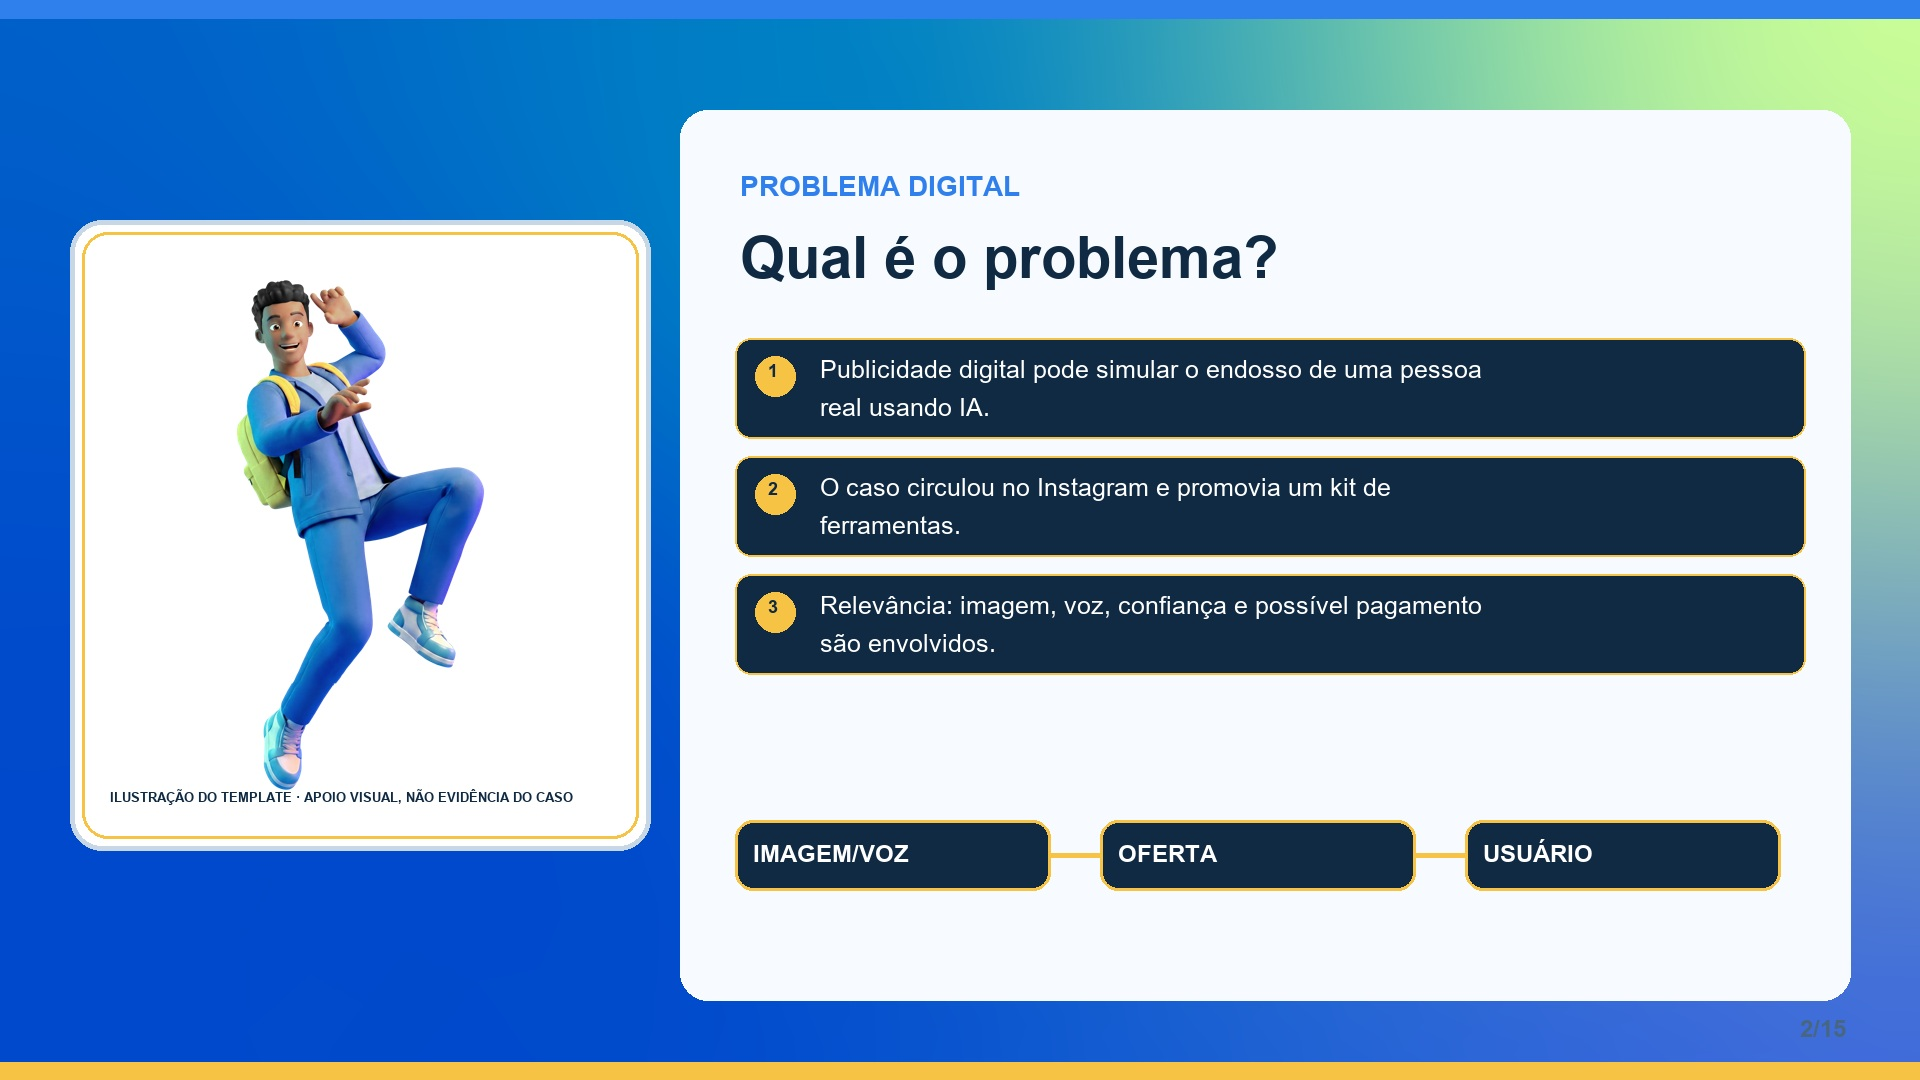
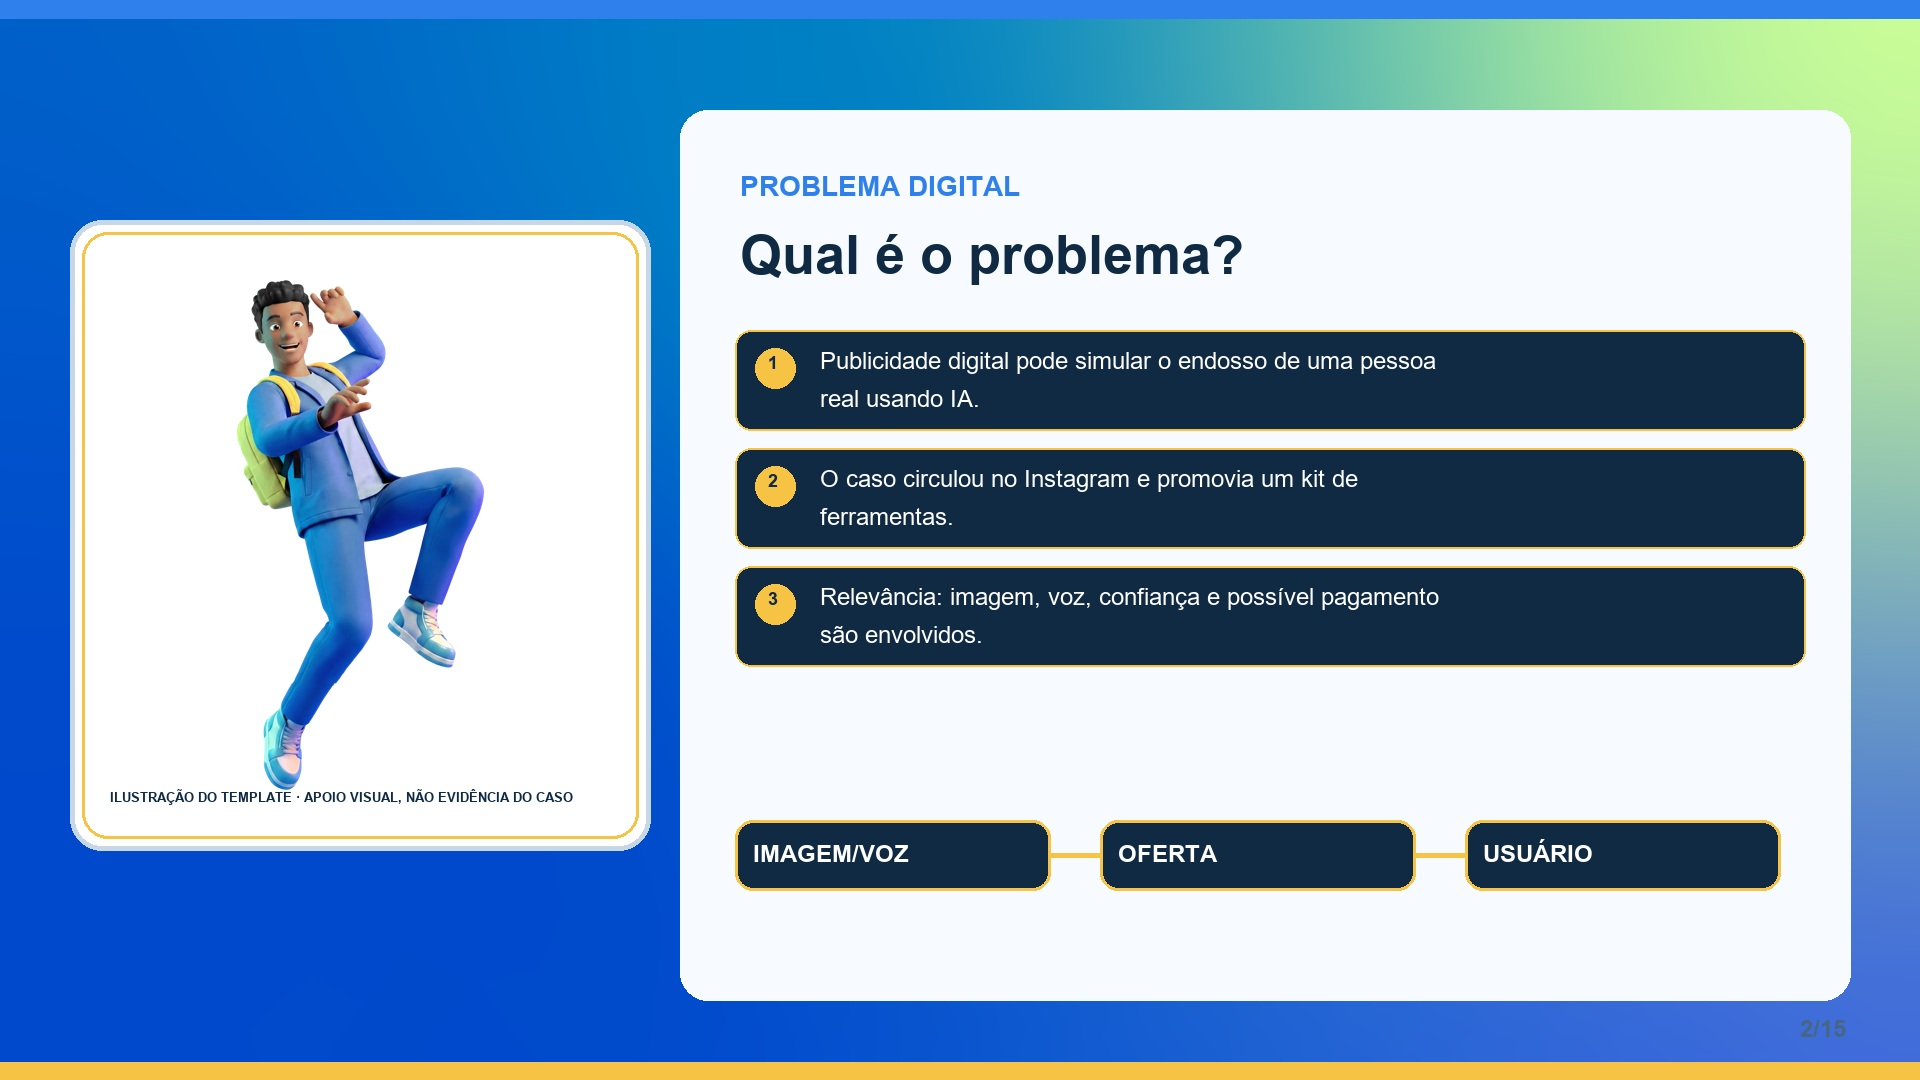
fix: padronizar escala tipografica dos slides

Changed region(s): [[0.375, 0.3056, 0.9375, 0.6417], [0.375, 0.2139, 0.6875, 0.275]]

diff --git a/scripts/generate_n3_jpgs.py b/scripts/generate_n3_jpgs.py
@@ -70,9 +70,9 @@ def diagram(d, i):
 
 for i,(k,t,ps,img) in enumerate(S,1):
  bg=Image.open(A/'template-capa-002.png').convert('RGB').resize((1920,1080))
- im=bg.copy(); d=ImageDraw.Draw(im); d.rectangle((0,0,1920,18),fill=(47,128,237)); d.rectangle((0,1062,1920,1080),fill=(246,195,68)); d.rounded_rectangle((680,110,1850,1000),radius=28,fill=(247,251,255,238)); d.rounded_rectangle((70,220,650,850),radius=32,fill=(255,255,255),outline=(199,215,229),width=5); d.rounded_rectangle((82,232,638,838),radius=26,outline=(246,195,68),width=3); a=Image.open(A/img).convert('RGBA'); a.thumbnail((520,560)); ax=360-a.width//2; ay=535-a.height//2; im.paste(a,(ax,ay),a); d.text((740,170),k,font=font(28,1),fill=(47,128,237)); title_size=58 if len(t)<=34 else 50 if len(t)<=44 else 44; d.text((740,225),t,font=font(title_size,1),fill=(16,42,67)); y=225+title_size+55
+ im=bg.copy(); d=ImageDraw.Draw(im); d.rectangle((0,0,1920,18),fill=(47,128,237)); d.rectangle((0,1062,1920,1080),fill=(246,195,68)); d.rounded_rectangle((680,110,1850,1000),radius=28,fill=(247,251,255,238)); d.rounded_rectangle((70,220,650,850),radius=32,fill=(255,255,255),outline=(199,215,229),width=5); d.rounded_rectangle((82,232,638,838),radius=26,outline=(246,195,68),width=3); a=Image.open(A/img).convert('RGBA'); a.thumbnail((520,560)); ax=360-a.width//2; ay=535-a.height//2; im.paste(a,(ax,ay),a); d.text((740,170),k,font=font(28,1),fill=(47,128,237)); title_size=54; d.text((740,225),t,font=font(title_size,1),fill=(16,42,67)); y=330
  for n,p in enumerate(ps,1):
-  lines=textwrap.wrap(p,58); body_size=25 if len(p)<105 else 22; line_h=38 if body_size==25 else 34; h=max(82,line_h*len(lines)+24)
+  lines=textwrap.wrap(p,58); body_size=24; line_h=38; h=max(82,line_h*len(lines)+24)
   d.rounded_rectangle((735,y,1805,y+h),radius=16,fill=(16,42,67),outline=(246,195,68),width=2)
   d.ellipse((755,y+18,795,y+58),fill=(246,195,68)); d.text((768,y+22),str(n),font=font(18,1),fill=(16,42,67))
   for j,line in enumerate(lines):d.text((820,y+17+j*line_h),line,font=font(body_size),fill=(255,255,255))

diff --git a/docs/typography-consistency.md b/docs/typography-consistency.md
@@ -1,0 +1,17 @@
+# Consistência tipográfica da apresentação
+
+## Prompt revisado
+
+> Gere todos os slides no mesmo canvas 16:9 e com escala tipográfica fixa. Use 54 px para títulos, 28 px para rótulos de seção, 24 px para conteúdo e 18–20 px somente para créditos/rodapé. Resolva textos longos por quebra de linha, síntese e aumento de área útil; não reduza a fonte de um slide isoladamente. Preserve alinhamento, margens, cartões, contraste e distância de leitura.
+
+## Padrão aplicado
+
+- título: 54 px, negrito, azul-marinho;
+- rótulo de seção: 28 px, negrito, azul;
+- conteúdo: 24 px, branco sobre cartões azul-marinho;
+- numeração: 18 px;
+- crédito visual: 13 px, reservado ao rodapé do cartão;
+- entrelinha dos cartões: 38 px;
+- canvas: 1920 × 1080, proporção 16:9.
+
+A variação de tamanho por comprimento foi removida. Textos extensos devem ser resumidos ou quebrados em linhas, mantendo a mesma identidade visual entre slides.

diff --git a/README.md b/README.md
@@ -19,6 +19,7 @@ Projeto-exemplo para o Ensino Médio (Nível 3), separado por documentação e c
 - `docs/ux-ui-assets-plan.md` — prompt revisado, regras UX/UI e matriz de encaixe dos assets.
 - `docs/visual-graphs-plan.md` — prompt e matriz de gráficos/diagramas correlacionados por slide.
 - `docs/uml-graphs-accessibility.md` — escolha de UML, tabelas, matrizes e critérios de acessibilidade.
+- `docs/typography-consistency.md` — escala fixa e regras de legibilidade tipográfica.
 
 ## Evidência e limites
 
